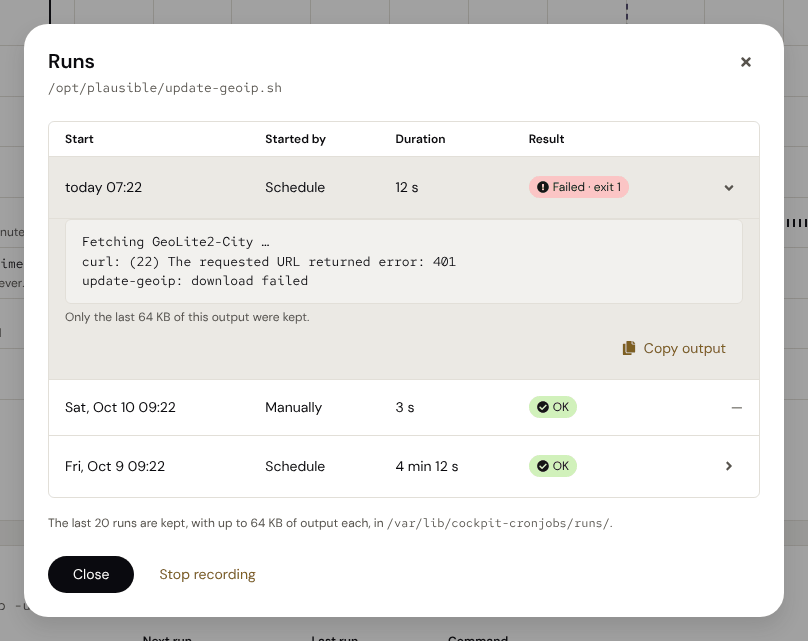
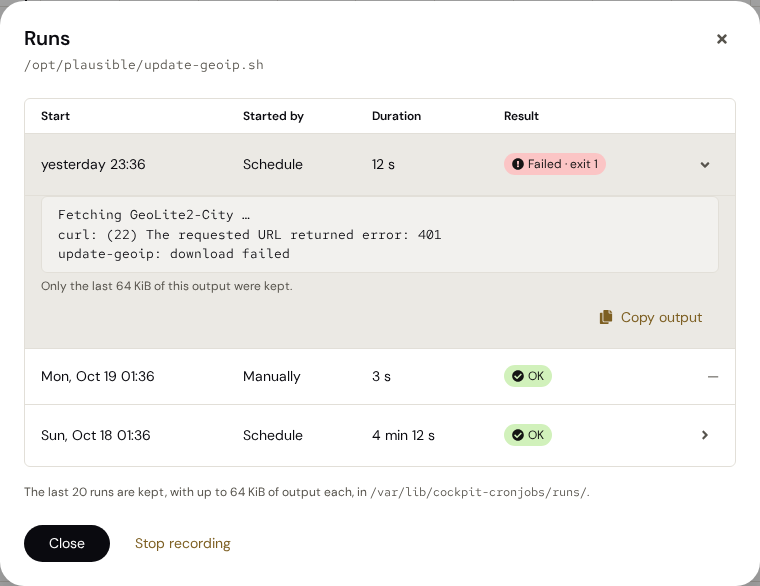
Make the screenshots of the README with a script in CI (#70)
The pictures in `docs/` were made by hand and no longer showed the page
as it is (no "Record all", older cards).

- `test/docs_shots.py` (new): takes the six pictures from the page
against the mock Cockpit (`test/serve.py`), in English with the server
in Berlin: the overview light and dark (full page, 1280 wide), and the
dialogs for run now, recorded runs (output open), conversion (checked)
and backups (what restoring the older of two versions changes). Only the
modal is taken for a dialog.
- CI (`test`): runs it after the browser tests and keeps the pictures as
the artifact `docs-screenshots`.
- `make docs-shots` writes them straight into `docs/`;
`test/docs-shots/` is ignored.
- `docs/*.png`: the six pictures from the artifact of the run of the
first commit, copied byte for byte (`sha256sum` compared). Dialogs are
760 pixels wide now (the modal itself), the overview is longer since the
page shows more.
- README: `make docs-shots` under Development.

No code changes.

diff --git a/test/docs_shots.py b/test/docs_shots.py
@@ -1,0 +1,98 @@
+# SPDX-License-Identifier: Apache-2.0
+"""The screenshots of the README (docs/*.png), taken from the page against the mock Cockpit, in English,
+with the server in Berlin: the overview light and dark, and the dialogs for run now, recorded runs,
+conversion and backups.
+Run: python3 test/docs_shots.py [DIR]   (needs Playwright with Chromium; DIR defaults to test/docs-shots)
+CI runs it in the job test and keeps the pictures as the artifact docs-screenshots; `make docs-shots`
+writes them to docs/."""
+import atexit, os, subprocess, sys, time
+from playwright.sync_api import sync_playwright
+
+here = os.path.dirname(os.path.abspath(__file__))
+OUT = sys.argv[1] if len(sys.argv) > 1 else os.path.join(here, "docs-shots")
+os.makedirs(OUT, exist_ok=True)
+PORT = int(os.environ.get("PORT", "8773"))
+BASE = f"http://127.0.0.1:{PORT}/pkg/cronjobs/index.html?lang=en&tz=Europe/Berlin"
+
+srv = subprocess.Popen([sys.executable, os.path.join(here, "serve.py"), str(PORT)])
+atexit.register(srv.terminate)
+time.sleep(0.6)
+
+
+def wait_js(page, expr, timeout=10):
+    """CSP blocks eval-based wait_for_function; poll with evaluate instead."""
+    end = time.time() + timeout
+    while time.time() < end:
+        if page.evaluate("() => !!(" + expr + ")"):
+            return
+        page.wait_for_timeout(40)
+    raise TimeoutError("wait_js timed out: " + expr)
+
+
+def open_page(browser, dark=False):
+    ctx = browser.new_context(viewport={"width": 1280, "height": 900}, timezone_id="Europe/Berlin", locale="en-US")
+    if dark:
+        ctx.add_init_script("localStorage.setItem('shell:style', 'dark')")
+    page = ctx.new_page()
+    page.goto(BASE)
+    wait_js(page, "document.querySelector('#meta').textContent.includes('Server time')")
+    wait_js(page, "!document.querySelector('#reload').disabled")
+    page.wait_for_timeout(300)
+    return page
+
+
+def picture(name):
+    return os.path.join(OUT, name + ".png")
+
+
+def dialog(page, dlg, name):
+    page.wait_for_timeout(200)
+    page.locator(f"#{dlg} .az-modal").screenshot(path=picture(name))
+
+
+with sync_playwright() as p:
+    browser = p.chromium.launch()
+    for dark, name in ((False, "overview"), (True, "overview-dark")):
+        page = open_page(browser, dark)
+        page.screenshot(path=picture(name), full_page=True)
+        page.context.close()
+
+    page = open_page(browser)
+    rows = page.locator("#root-body tbody tr")
+    # the recorded runs of the first job, the output of the newest open
+    rows.nth(0).locator("[data-key^='runs:']").click()
+    wait_js(page, "document.querySelectorAll('#runs-body tbody tr').length >= 3")
+    page.locator("#runs-body [data-key^='out:']").first.click()
+    wait_js(page, "document.querySelector('#runs-body pre')")
+    dialog(page, "runs-dlg", "runs")
+    page.click("#runs-close-btn")
+    # run now, with its output
+    rows.nth(1).locator("[data-key^='run:']").click()
+    page.click("#run-start")
+    wait_js(page, "!document.querySelector('#run-done-actions').hidden")
+    dialog(page, "run-dlg", "run-now")
+    page.click("#run-close-btn")
+    # conversion to a systemd timer, checked
+    rows.nth(1).locator("[data-key^='more:']").click()
+    page.locator(".cron-menu__item", has_text="Convert to systemd timer").click()
+    wait_js(page, "!document.querySelector('#conv-ok').disabled")
+    dialog(page, "conv-dlg", "convert")
+    page.keyboard.press("Escape")
+    # backups: two earlier versions, what restoring the older one changes
+    page.evaluate("""() => {
+        const now = Math.floor(Date.now() / 1000);
+        const cur = window.__mock.root;
+        const p = n => '/var/lib/cockpit-cronjobs/backups/root-' + n + '.crontab';
+        window.__mock.backups = [
+            { path: p('20261019-030000'), content: cur.replace('30 1 * * 0', '30 2 * * 0').replace(/^@reboot .*\\n/m, ''),
+              mtime: now - 86400 * 2 },
+            { path: p('20261020-210000'), content: cur.replace(/^@reboot .*\\n/m, ''), mtime: now - 3600 },
+        ];
+    }""")
+    page.click("#backups")
+    wait_js(page, "document.querySelectorAll('#bk-body tbody tr').length === 2")
+    page.click("[data-key='bk:root-20261019-030000.crontab']")
+    wait_js(page, "document.querySelector('.cron-diff')")
+    dialog(page, "bk-dlg", "backups")
+    browser.close()
+print("written to " + OUT + ": " + ", ".join(sorted(os.listdir(OUT))))

diff --git a/README.md b/README.md
@@ -314,6 +314,7 @@ Cockpit uses that language. `node test/i18n.test.js` checks that every text exis
 ```sh
 make check        # unit tests: crontab logic, systemd conversion (against systemd-analyze), run recorder, removal of leftover runs, the list of runs, cron's log, back to cron and backups (dash, bash), differences (against GNU diff), texts, the status (dash, bash; mawk, gawk), the menu icon
 make check-ui     # browser tests against a stand-in for Cockpit (needs Python Playwright with Chromium)
+make docs-shots   # the screenshots of this README into docs/ (CI keeps them as the artifact docs-screenshots)
 ```
 
 `test/e2e_cockpit.py` runs the main flows against a real Cockpit with real cron. It replaces root's
